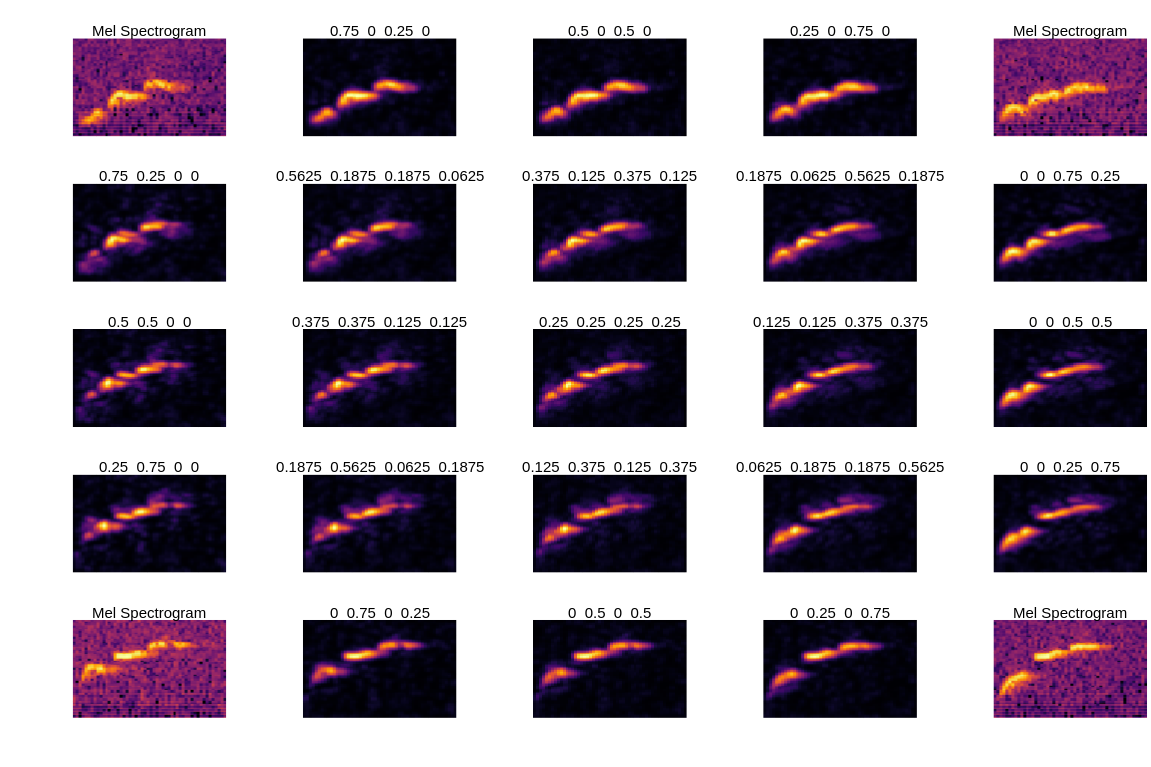
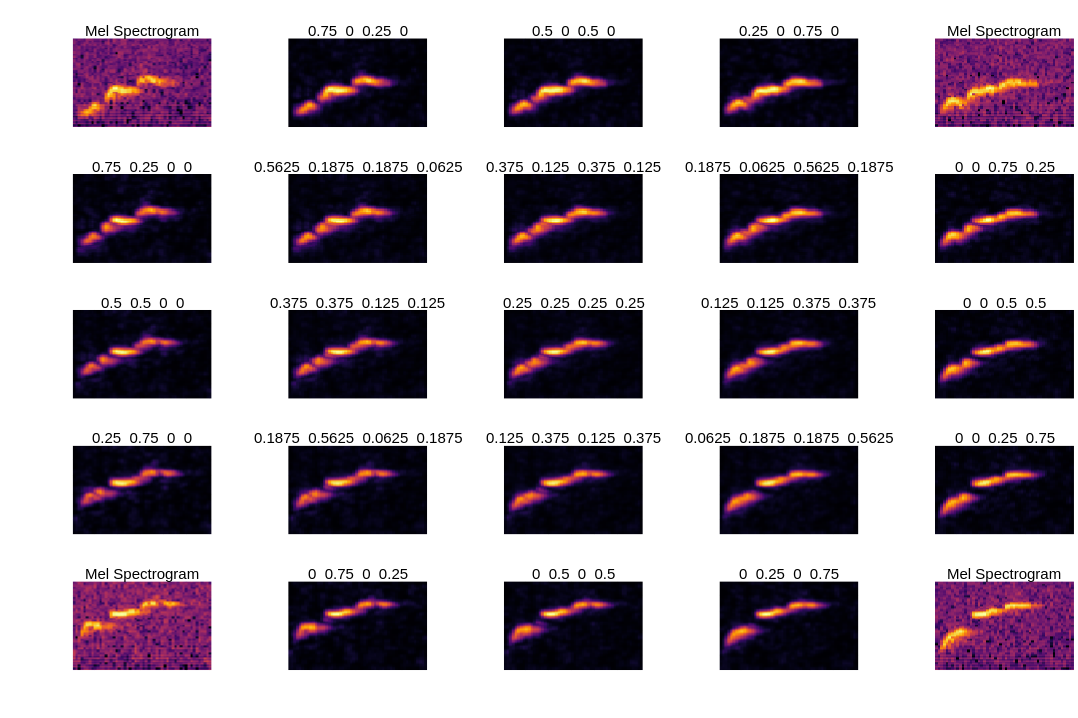
update readme

diff --git a/README.md b/README.md
@@ -31,7 +31,7 @@ pkg"add SpectralDistances"
 
 
 ## Example: Barycentric interpolation of spectrograms
-See the folder `examples` for the code.
+The image below illustrates interpolation between 4 Mel spectrograms, each one representing a short whistle. See the folder `examples` for the code.
 
 ![barycenters](examples/barycenters.png)
 
